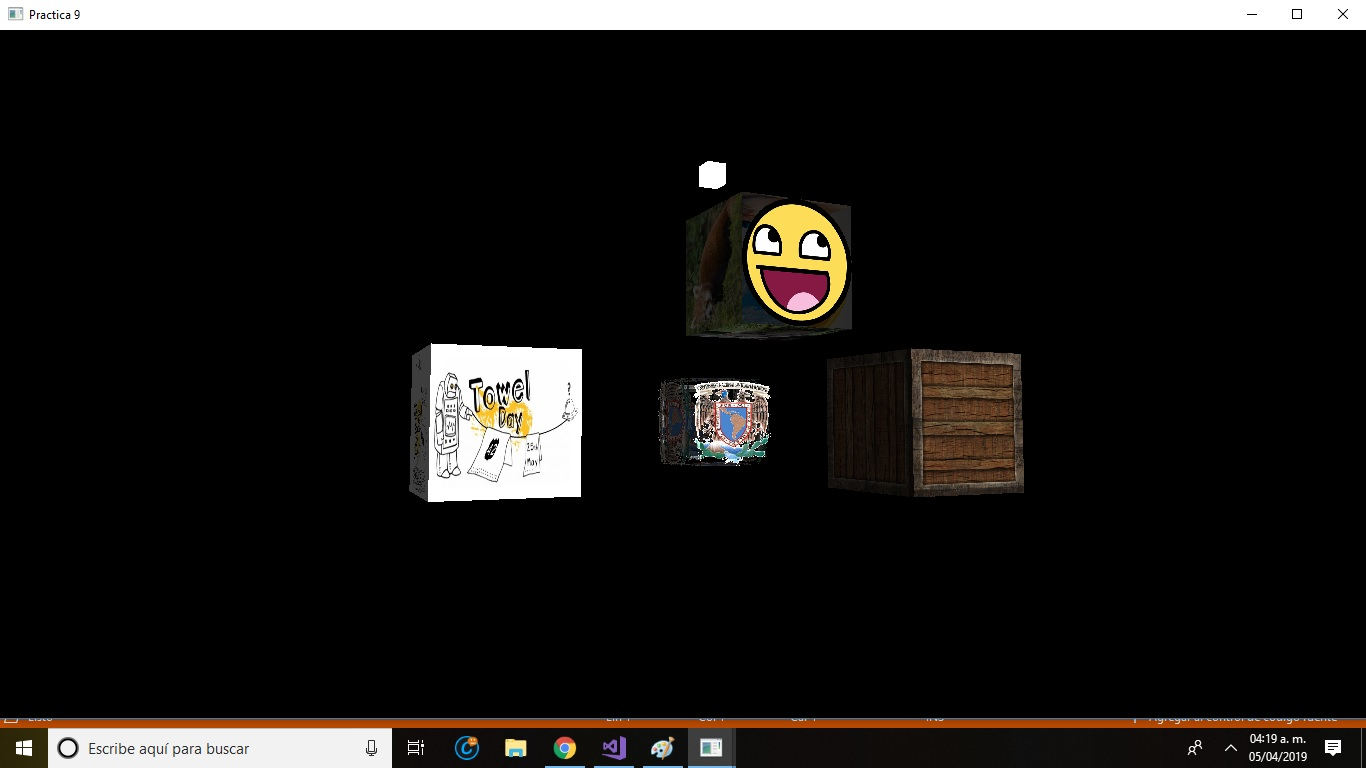
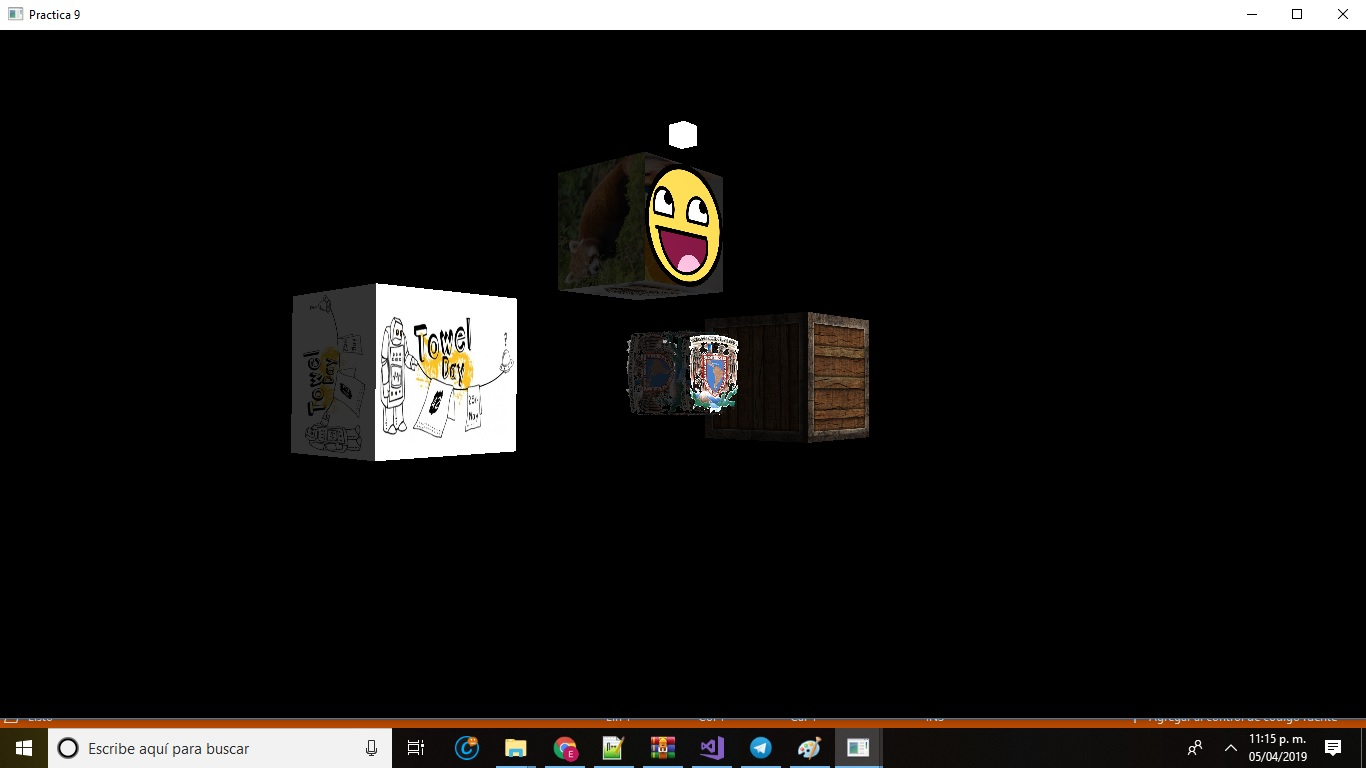
Practica9
Díaz Gutiérrez Elvira Angela Belem

Changed region(s): [[0.2152, 0.1562, 0.7687, 0.6562], [0.3997, 0.9375, 0.6457, 1.0], [0.9224, 0.9375, 0.9531, 0.9688]]

diff --git a/P9_EABDG/main_prac09_clase.cpp b/P9_EABDG/main_prac09_clase.cpp
@@ -431,11 +431,13 @@ void display(void)
 	model = glm::scale(model, glm::vec3(2.0f, 2.0f, 2.0f));
 	lightingShader.setMat4("model", model);
 	lightingShader.setInt("material_diffuse", t_Cielo);
+	lightingShader.setInt("material_specular", t_Cielo);
 	glDrawArrays(GL_QUADS, 24, 4);
 
 	//Enfrente   
 	lightingShader.setMat4("model", model);
 	lightingShader.setInt("material_diffuse", t_smile);
+	lightingShader.setInt("material_specular", t_smile);
 	glDrawArrays(GL_QUADS, 28, 4);
 	//Izquierda
 	lightingShader.setMat4("model", model);
@@ -450,11 +452,13 @@ void display(void)
 	//Abajo
 	lightingShader.setMat4("model", model);
 	lightingShader.setInt("material_diffuse", t_erizo);
+	lightingShader.setInt("material_specular", t_erizo);
 	glDrawArrays(GL_QUADS, 40, 4);
 	
 	//Arriba
 	lightingShader.setMat4("model", model);
 	lightingShader.setInt("material_diffuse", t_erizo_cobijita);
+	lightingShader.setInt("material_specular", t_erizo_cobijita);
 	glDrawArrays(GL_QUADS, 44, 4);
 
 
